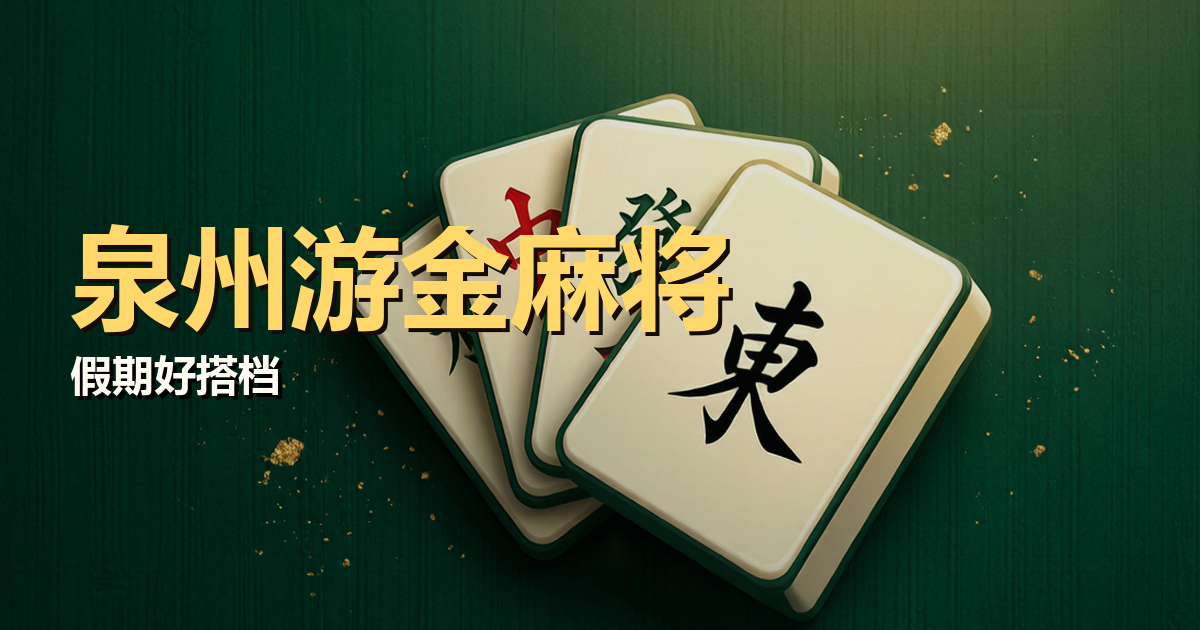
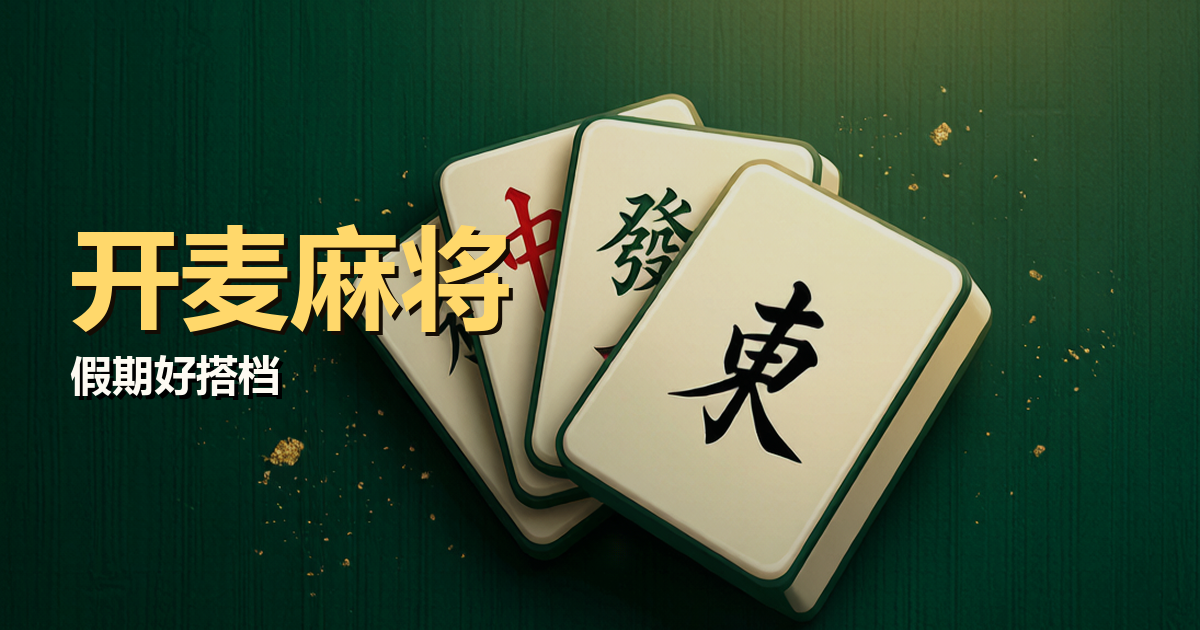
refactor: 游戏整体更名为「开麦麻将」
- index.html title/og/twitter 标题
- package.json / cloudfunctions/room-api/package.json 描述
- AGENTS.md / docs/rules.md / overview.md 标题
- src/engine/engine.ts 与 src/styles/app.css 注释
- public/make_og.py 标题,重新生成 public/og-image.png
- mockups/ 视觉稿标题

Changed region(s): [[0.0617, 0.3317, 0.6167, 0.5429]]

diff --git a/index.html b/index.html
@@ -4,18 +4,18 @@
   <meta charset="UTF-8">
   <meta name="viewport" content="width=device-width, initial-scale=1.0, viewport-fit=cover, user-scalable=no">
   <meta name="format-detection" content="telephone=no">
-  <title>泉州游金麻将</title>
+  <title>开麦麻将</title>
   <link href="https://fonts.googleapis.com/css2?family=Noto+Serif+SC:wght@600;900&family=Noto+Sans+SC:wght@400;500;700&display=swap" rel="stylesheet">
   <!-- 微信/QQ/微博分享卡(og) -->
-  <meta property="og:title" content="泉州游金麻将">
+  <meta property="og:title" content="开麦麻将">
   <meta property="og:description" content="16张 · 补花 · 单双三游 · 假期好搭档">
   <meta property="og:image" content="https://qzmj-d8ge0bj5g9257711b-1463592371.tcloudbaseapp.com/og-image.png">
   <meta property="og:image:width" content="1200">
   <meta property="og:image:height" content="630">
   <meta property="og:type" content="website">
-  <meta name="description" content="泉州游金麻将 · 假期好搭档">
+  <meta name="description" content="开麦麻将 · 假期好搭档">
   <meta name="twitter:card" content="summary_large_image">
-  <meta name="twitter:title" content="泉州游金麻将">
+  <meta name="twitter:title" content="开麦麻将">
   <meta name="twitter:description" content="16张 · 补花 · 单双三游 · 假期好搭档">
   <meta name="twitter:image" content="https://qzmj-d8ge0bj5g9257711b-1463592371.tcloudbaseapp.com/og-image.png">
 </head>

diff --git a/src/styles/app.css b/src/styles/app.css
@@ -1,4 +1,4 @@
-/* 泉州游金麻将 · 单机版样式（移植自 mockups 设计系统） */
+/* 开麦麻将 · 单机版样式（移植自 mockups 设计系统） */
 :root {
   --brick: #a63a2e;
   --brick-deep: #7e2a21;
@@ -435,7 +435,7 @@ body { display: flex; align-items: center; justify-content: center; overflow: hi
 /* 左/右家牌河：座位块右侧（在屏幕中段偏左/偏右，避开 topbar/罗盘/foot-info） */
 .og .river-left { left: 200px; top: 132px; width: 88px; flex-direction: row; flex-wrap: wrap; }
 .og .river-right { right: 200px; top: 132px; width: 88px; flex-direction: row; flex-wrap: wrap; justify-content: flex-end; }
-/* 我家牌河：第一排顶部对齐罗盘底部(罗盘 175+30 半径+圆角外缘 ≈ 210)，第二排 z-index 更高覆盖"泉州麻将" */
+/* 我家牌河：第一排顶部对齐罗盘底部(罗盘 175+30 半径+圆角外缘 ≈ 210)，第二排 z-index 更高覆盖"开麦麻将" */
 .og .river-mine { left: 50%; top: 210px; transform: translateX(-50%); width: 130px; justify-content: center; z-index: 6; }
 
 /* ---- 副露（其他三家显示，我家由 my-melds 独占） ---- */

diff --git a/mockups/index.html b/mockups/index.html
@@ -3,7 +3,7 @@
 <head>
 <meta charset="UTF-8">
 <meta name="viewport" content="width=device-width, initial-scale=1.0">
-<title>泉州游金麻将 · 视觉稿索引</title>
+<title>开麦麻将 · 视觉稿索引</title>
 <style>
   body {
     background: #0d1b1e;
@@ -29,7 +29,7 @@
 </style>
 </head>
 <body>
-  <h1>泉州游金麻将 · 关键视觉稿</h1>
+  <h1>开麦麻将 · 关键视觉稿</h1>
   <a href="home.html">首页</a>
   <a href="lobby.html">好友房大厅</a>
   <a href="table.html">牌桌</a>

diff --git a/mockups/lobby.html b/mockups/lobby.html
@@ -3,7 +3,7 @@
 <head>
 <meta charset="UTF-8">
 <meta name="viewport" content="width=device-width, initial-scale=1.0">
-<title>泉州游金麻将 · 好友房大厅（视觉稿）</title>
+<title>开麦麻将 · 好友房大厅（视觉稿）</title>
 <link href="https://fonts.googleapis.com/css2?family=Noto+Serif+SC:wght@600;900&family=Noto+Sans+SC:wght@400;500;700&display=swap" rel="stylesheet">
 <link rel="stylesheet" href="mj.css">
 <style>

diff --git a/mockups/home.html b/mockups/home.html
@@ -3,7 +3,7 @@
 <head>
 <meta charset="UTF-8">
 <meta name="viewport" content="width=device-width, initial-scale=1.0">
-<title>泉州游金麻将 · 首页（视觉稿）</title>
+<title>开麦麻将 · 首页（视觉稿）</title>
 <link href="https://fonts.googleapis.com/css2?family=Noto+Serif+SC:wght@600;900&family=Noto+Sans+SC:wght@400;500;700&display=swap" rel="stylesheet">
 <link rel="stylesheet" href="mj.css">
 <style>

diff --git a/mockups/table.html b/mockups/table.html
@@ -3,7 +3,7 @@
 <head>
 <meta charset="UTF-8">
 <meta name="viewport" content="width=device-width, initial-scale=1.0">
-<title>泉州游金麻将 · 牌桌（视觉稿）</title>
+<title>开麦麻将 · 牌桌（视觉稿）</title>
 <link href="https://fonts.googleapis.com/css2?family=Noto+Serif+SC:wght@600;900&family=Noto+Sans+SC:wght@400;500;700&display=swap" rel="stylesheet">
 <link rel="stylesheet" href="mj.css">
 <style>

diff --git a/mockups/mj.css b/mockups/mj.css
@@ -1,5 +1,5 @@
 /* ============================================================
-   泉州游金麻将 · 视觉稿设计系统
+   开麦麻将 · 视觉稿设计系统
    「古厝新国潮」：砖红 / 墨青 / 暖米白 / 鎏金 / 海丝青绿
    标题：思源宋体  功能文字：思源黑体
    画布：812×375（iPhone 横屏），按视口等比缩放，居中留安全区

diff --git a/src/engine/engine.ts b/src/engine/engine.ts
@@ -1,5 +1,5 @@
 /**
- * 泉州游金麻将 - 纯规则引擎（回合级状态机）。
+ * 开麦麻将 - 纯规则引擎（回合级状态机）。
  *
  * 已钉死的设计决策（改动需过评审）：
  *  D1 翻金移出牌墙：被翻的金牌作为指示物不可被摸到（也不进入任何手牌），

diff --git a/public/make_og.py b/public/make_og.py
@@ -76,8 +76,8 @@ font_title = find_font(FONT_CANDIDATES, 110)
 font_sub = find_font_plain(FONT_CANDIDATES, 42)
 font_tag = find_font_plain(FONT_CANDIDATES, 32)
 
-# 标题:泉州游金麻将
-title = "泉州游金麻将"
+# 标题:开麦麻将
+title = "开麦麻将"
 # 副标题
 sub = "假期好搭档"
 

diff --git a/overview.md b/overview.md
@@ -1,4 +1,4 @@
-# 泉州游金麻将 · 阶段交付（v3 = 单机可玩版）
+# 开麦麻将 · 阶段交付（v3 = 单机可玩版）
 
 > **历史文档（2026-08-03）**：以下为单机可玩版阶段交付报告。现役状态以 **AGENTS.md** 为准——好友房联机与实时语音均已上线（2026-08-11/08-13），测试 51/51。本文件保留历史叙事，不再更新。
 

diff --git a/docs/rules.md b/docs/rules.md
@@ -1,4 +1,4 @@
-# 泉州游金麻将 · 规则说明（引擎实现版 v0.1）
+# 开麦麻将 · 规则说明（引擎实现版 v0.1）
 
 本文档与 `src/engine/` 代码一一对应，是规则的唯一权威解释。代码与文档冲突时，以评审后的修订为准，不允许静默分叉。
 

diff --git a/AGENTS.md b/AGENTS.md
@@ -1,4 +1,4 @@
-# AGENTS.md — 泉州游金麻将
+# AGENTS.md — 开麦麻将
 
 ## 项目一句话
 手机横屏网页麻将（泉州 16 张游金玩法），单机 1 真人+3 电脑 / 好友房 1–4 真人联网，微信可玩，实时语音开麦。
